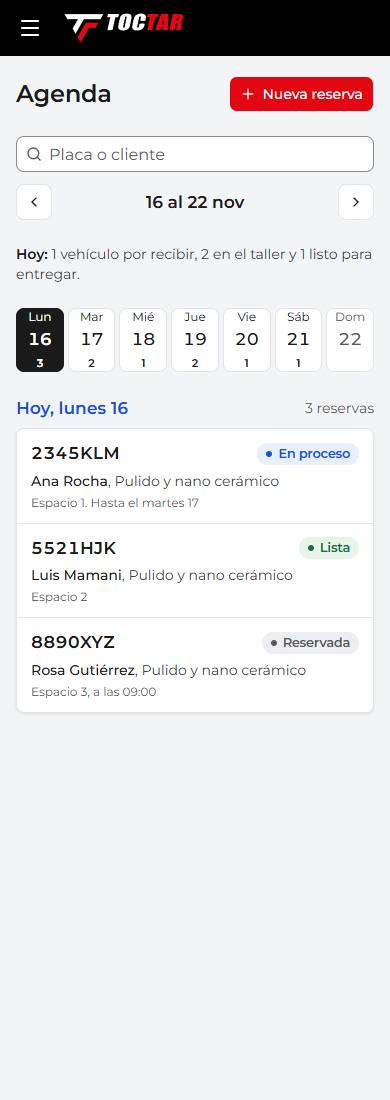
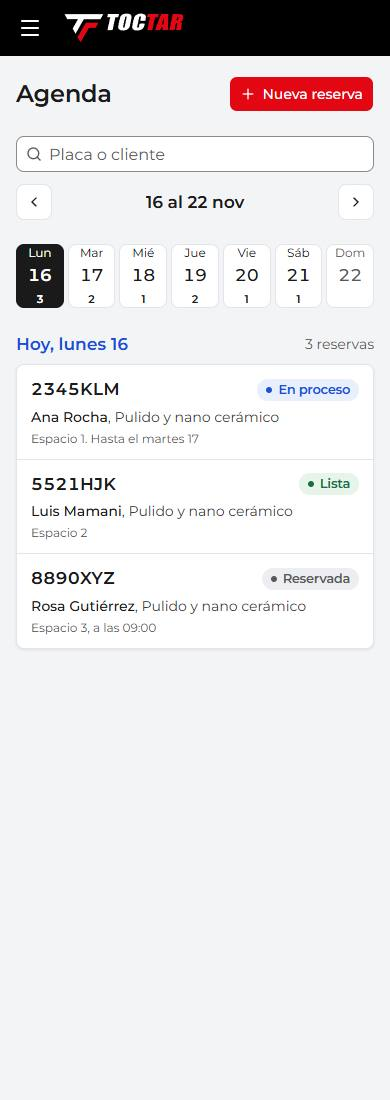
fix: la Agenda sin el resumen de hoy (por recibir, en el taller y para entregar)
Sobraba: la semana ya lo muestra. Se va también su consulta (resumenDeHoy). Las capturas, al día.

Changed region(s): [[0.0308, 0.2164, 0.9538, 0.6491]]

diff --git a/src/app/panel/agenda/page.tsx b/src/app/panel/agenda/page.tsx
@@ -12,14 +12,14 @@ import { ListaFilas } from "@/componentes/panel/fila-lista";
 import { Insignia } from "@/componentes/panel/insignia";
 import { PaginaPanel } from "@/componentes/panel/pagina-panel";
 import { CeldaDoble, TablaLista, type ColumnaTabla } from "@/componentes/panel/tabla-lista";
-import { cantidad, palabra } from "@/lib/cantidad";
+import { cantidad } from "@/lib/cantidad";
 import { buttonVariants } from "@/componentes/ui/button";
 import { fechaEnBolivia, fechaExiste, sumarDias } from "@/lib/fechas";
 import { puedeVerModulo } from "@/lib/permisos";
 import { exigirModulo } from "@/lib/sesion";
 import { AgendaDelDia, PestanasDias, SemanaEnLista, TableroSemana } from "@/modulos/agenda/componentes/tablero";
-import { buscarReservas, resumenDeHoy, semanaDeAgenda, type ResumenDeHoy } from "@/modulos/agenda/consultas";
-import { diasDeLaSemana, fechaCorta, lunesDeLaSemana, NOMBRE_ESTADO_TRABAJO, textoSemana, textoServicio, textoSemanaCorto, TONO_ESTADO_TRABAJO, unirConY } from "@/modulos/agenda/reglas";
+import { buscarReservas, semanaDeAgenda } from "@/modulos/agenda/consultas";
+import { diasDeLaSemana, fechaCorta, lunesDeLaSemana, NOMBRE_ESTADO_TRABAJO, textoSemana, textoServicio, textoSemanaCorto, TONO_ESTADO_TRABAJO } from "@/modulos/agenda/reglas";
 import { cotizacionesPorReservar, type FilaCotizacion } from "@/modulos/cotizaciones/consultas";
 import { bs, diasDesde, textoDias } from "@/modulos/cotizaciones/reglas";
 import { rutaTrabajo } from "@/modulos/ordenes/reglas";
@@ -30,7 +30,7 @@ export const metadata: Metadata = { title: "Agenda" };
 // HU-29: el tablero de la agenda (RF-38). `?semana=` (cualquier día de la semana; se toma su lunes) y, en el celular,
 // `?dia=` (el día que se ve). Dueño o encargado con "Agenda".
 // Pulido 10.1: el tablero de la semana solo con espacio (desde 1280 px desde el 16/11). Lavado de cara (16/11,
-// prototipo aprobado): un buscador de reservas de cualquier semana (?q=), lo de hoy en una línea, "Por reservar" plegado
+// prototipo aprobado): un buscador de reservas de cualquier semana (?q=), "Por reservar" plegado
 // y, en la tableta, la semana como lista por día; en el celular, un día a la vez.
 export default function PaginaAgenda({ searchParams }: PageProps<"/panel/agenda">) {
   return (
@@ -118,7 +118,7 @@ async function Tablero({ searchParams }: Pick<PageProps<"/panel/agenda">, "searc
 /** Lo de hoy, "Por reservar" y la semana en sus tres vistas (computadora, tableta y celular). */
 async function Semana(props: { lunes: string; dias: string[]; dia: string; hoy: string; conOrdenes: boolean; conMontos: boolean; desde: string }) {
   const { lunes, dias, dia, hoy, conOrdenes, conMontos, desde: desdeAqui } = props;
-  const [semana, porReservar, resumen] = await Promise.all([semanaDeAgenda(lunes, dias[6]), cotizacionesPorReservar(), resumenDeHoy(hoy)]);
+  const [semana, porReservar] = await Promise.all([semanaDeAgenda(lunes, dias[6]), cotizacionesPorReservar()]);
   const ahora = new Date();
   const fila = (c: FilaCotizacion) => ({
     href: conDesde(`/panel/agenda/nueva?cotizacion=${c.cotizacionId}`, desdeAqui),
@@ -129,23 +129,20 @@ async function Semana(props: { lunes: string; dias: string[]; dia: string; hoy: 
 
   return (
     <>
-      <div className="flex flex-col gap-3">
-        <ResumenHoy resumen={resumen} />
-        {/* Pedido 31: las cotizaciones aceptadas que esperan fecha. Lavado de cara (16/11): plegadas en una fila, así el
-            tablero, que es lo principal de la Agenda, no queda abajo de una lista larga; sin ninguna, no ocupa lugar */}
-        {porReservar.length > 0 && (
-          <details className="group">
-            <summary className="tt-tarjeta-panel flex min-h-12 cursor-pointer list-none items-center gap-3 px-4 py-3 hover:bg-superficie/50 [&::-webkit-details-marker]:hidden">
-              <span className="inline-flex h-6 min-w-6 items-center justify-center rounded-full bg-aviso-fondo px-1.5 text-sm font-bold text-aviso">{porReservar.length}</span>
-              <span className="flex-1 text-sm font-semibold">{porReservar.length === 1 ? "Cotización por reservar" : "Cotizaciones por reservar"}</span>
-              <ChevronDownIcon className="size-4 shrink-0 text-tinta-suave group-open:rotate-180" aria-hidden />
-            </summary>
-            <div className="mt-2">
-              <ListaFilas etiqueta="Por reservar" filas={porReservar.map(fila)} />
-            </div>
-          </details>
-        )}
-      </div>
+      {/* Pedido 31: las cotizaciones aceptadas que esperan fecha. Lavado de cara (16/11): plegadas en una fila, así el
+          tablero, que es lo principal de la Agenda, no queda abajo de una lista larga; sin ninguna, no ocupa lugar */}
+      {porReservar.length > 0 && (
+        <details className="group">
+          <summary className="tt-tarjeta-panel flex min-h-12 cursor-pointer list-none items-center gap-3 px-4 py-3 hover:bg-superficie/50 [&::-webkit-details-marker]:hidden">
+            <span className="inline-flex h-6 min-w-6 items-center justify-center rounded-full bg-aviso-fondo px-1.5 text-sm font-bold text-aviso">{porReservar.length}</span>
+            <span className="flex-1 text-sm font-semibold">{porReservar.length === 1 ? "Cotización por reservar" : "Cotizaciones por reservar"}</span>
+            <ChevronDownIcon className="size-4 shrink-0 text-tinta-suave group-open:rotate-180" aria-hidden />
+          </summary>
+          <div className="mt-2">
+            <ListaFilas etiqueta="Por reservar" filas={porReservar.map(fila)} />
+          </div>
+        </details>
+      )}
 
       {semana.espacios.length === 0 ? (
         <p className="text-tinta-suave">No hay espacios activos. Agrégalos en Configuración, «Taller».</p>
@@ -158,24 +155,6 @@ async function Semana(props: { lunes: string; dias: string[]; dia: string; hoy: 
         </>
       )}
     </>
-  );
-}
-
-/**
- * Lo de hoy en una línea de texto (revisión del desarrollador, 16/11): antes eran tres números en una tarjeta que
- * llevaban a otras pantallas; ahora solo se lee. "Hoy: 1 vehículo por recibir, 2 en el taller y 1 listo para
- * entregar." Lo que está en cero no se nombra.
- */
-function ResumenHoy({ resumen }: { resumen: ResumenDeHoy }) {
-  const partes = [
-    resumen.porRecibir > 0 && `${cantidad(resumen.porRecibir, "vehículo", "vehículos")} por recibir`,
-    resumen.enElTaller > 0 && `${resumen.enElTaller} en el taller`,
-    resumen.paraEntregar > 0 && `${resumen.paraEntregar} ${palabra(resumen.paraEntregar, "listo", "listos")} para entregar`,
-  ].filter((p): p is string => !!p);
-  return (
-    <p className="text-sm text-tinta-media">
-      <span className="font-semibold text-tinta">Hoy:</span> {partes.length > 0 ? unirConY(partes) : "nada por recibir ni en el taller"}.
-    </p>
   );
 }
 

diff --git a/src/modulos/agenda/consultas.ts b/src/modulos/agenda/consultas.ts
@@ -562,27 +562,6 @@ export async function semanaDeAgenda(lunes: string, domingo: string): Promise<Se
   };
 }
 
-/** Lo de hoy arriba de la Agenda (lavado de cara, 16/11): cuántas faltan recibir, cuántas están en el taller y cuántas listas. */
-export type ResumenDeHoy = { porRecibir: number; enElTaller: number; paraEntregar: number };
-
-/**
- * Por recibir: las agendadas de hoy y las de días pasados que todavía no se recibieron (como el Inicio, `ingresosDeHoy`).
- * En el taller: recibidas, en proceso o listas. Para entregar: las listas.
- */
-export async function resumenDeHoy(hoy: string): Promise<ResumenDeHoy> {
-  const s = await sucursalPrincipal();
-  const [fila] = await db
-    .select({
-      porRecibir: sql<number>`count(*) filter (where ${trabajo.estado} = 'agendado' and ${trabajo.fechaInicio} <= ${hoy})`.mapWith(Number),
-      enElTaller: sql<number>`count(*) filter (where ${trabajo.estado} in ('recibido', 'en_proceso', 'listo'))`.mapWith(Number),
-      paraEntregar: sql<number>`count(*) filter (where ${trabajo.estado} = 'listo')`.mapWith(Number),
-    })
-    .from(trabajo)
-    // Solo las abiertas: las entregadas y canceladas se juntan con los años y no cuentan aquí
-    .where(and(eq(trabajo.sucursalId, s.id), inArray(trabajo.estado, ["agendado", "recibido", "en_proceso", "listo"])));
-  return fila ?? { porRecibir: 0, enElTaller: 0, paraEntregar: 0 };
-}
-
 export type ReservaEncontrada = Omit<ReservaTablero, "espacioId"> & { espacio: string };
 
 /** Cuántas reservas muestra la búsqueda de la Agenda: si hay más, se pide escribir más. */

diff --git a/tests/e2e/hu-29-tablero.spec.ts b/tests/e2e/hu-29-tablero.spec.ts
@@ -113,10 +113,6 @@ test("el buscador encuentra una reserva de otra semana por su placa y la abre; v
   await reserva(placa, 0, lunes, 4, 4);
   await ingresarComoDueno(page);
   await page.goto("/panel/agenda");
-  // Lo de hoy, en una línea de texto arriba del tablero, sin enlaces
-  const hoy = page.getByText(/^Hoy: /);
-  await expect(hoy).toBeVisible();
-  await expect(hoy.getByRole("link")).toHaveCount(0);
 
   await page.getByRole("searchbox", { name: "Buscar reservas por placa, cliente o teléfono" }).fill(placa.toLowerCase());
   const fila = page.getByRole("link", { name: new RegExp(`^${placa}`) });

diff --git a/src/lib/cantidad.ts b/src/lib/cantidad.ts
@@ -2,7 +2,4 @@
 // así ninguna pantalla escribe su propio n === 1.
 
 /** "3 vencidos", "1 vencido". */
-export const cantidad = (n: number, singular: string, plural: string) => `${n} ${palabra(n, singular, plural)}`;
-
-/** Solo la palabra, para cuando el número va aparte (más grande, en Reportes): "vehículo entregado" o "vehículos entregados". */
-export const palabra = (n: number, singular: string, plural: string) => (n === 1 ? singular : plural);
+export const cantidad = (n: number, singular: string, plural: string) => `${n} ${n === 1 ? singular : plural}`;

diff --git a/docs/08-desarrollo/pulido-visual.md b/docs/08-desarrollo/pulido-visual.md
@@ -319,7 +319,7 @@ Las pantallas de C1 a C4, en el orden en que el taller las usa. Los mismos está
 | 13.60 | **La política de privacidad, sección por sección** (14/11, pedido del desarrollador): «Editar política de privacidad» abría un modal con los 9 textos, algunos de hasta 2.500 caracteres: para corregir una palabra había que bajar por todo. Ahora cada sección es una tarjeta con su «Editar» y su modal con ese texto solo, con su ayuda (`editaPorSeccion` en el registro de páginas: aplica a las páginas largas; las demás siguen con un modal). Se guarda solo esa sección y se junta con lo guardado en un solo paso (`guardarSeccionContenido`): dos personas que editan secciones distintas no se pisan, y la «Última actualización» se mueve solo si cambió el texto. Pruebas: p49. |
 | 13.61 | **Subir fotos a la galería, en un modal** (14/11, pedido del desarrollador): «Subir fotos» reemplazaba el botón por un formulario en medio de la página, que empujaba la portada elegida y la lista. Ahora abre el modal «Subir fotos» (en el celular, la hoja desde abajo), con el selector de dos botones del pulido 13.56 (Tomar foto y Elegir de la galería; en la computadora, también se suelta encima), el antes y el después lado a lado desde la tableta y uno debajo del otro en el celular, el avance en el pie (no se cierra mientras sube) y el aviso al cerrarlo con fotos elegidas. El selector compartido suma lo que tenía la zona de la galería: rechaza lo que no es una foto también al elegirla y avisa si se soltaron varias; y sus botones dicen de qué foto son para el lector de pantalla («Tomar foto del después»). Pruebas: hu-09, base, hu-10 y hu-12. |
 | 13.62 | **El lavado de cara de la Agenda** (16/11, prototipo aprobado ese día): en la computadora, cada día libre era un recuadro punteado con «+» (unos 15 por semana) y las reservas se perdían entre ellos; «Cerrado» iba en un bloque gris por espacio; hoy solo se marcaba en su encabezado; las reservas decían placa y servicio cortado, sin el cliente. La tableta usaba la vista del celular (un día, con media pantalla vacía) y en el celular el punto de «tiene reservas» salía en casi todos los días. No había buscador. Ahora: un **buscador** de reservas de cualquier semana por placa, cliente o teléfono (`buscarReservas`, las próximas primero y después las pasadas, hasta 30); **lo de hoy** en una línea (por recibir, en el taller y para entregar, `resumenDeHoy`); «**Por reservar**» plegado en una fila con su cuenta. **Computadora** (desde 1280 px; en una laptop de 1024, con el menú, cada día medía 80 px): los días libres sin recuadro (el «Reservar» aparece al pasar el mouse o con el foco), hoy enmarcado en toda su columna, el día cerrado una sola vez con rayas a 60° y cada reserva con placa, cliente, servicio, estado escrito y hora si se acordó. **Tableta y laptop chica:** la semana como lista por día («Hoy, lunes 16», «Mañana, martes 17»), con los espacios libres juntos en una fila con «Reservar». **Celular:** las pestañas dicen cuántas reservas tiene cada día (o «libre») y el día va en una sola tarjeta, con los libres en una fila baja. Pruebas: hu-29 (con el buscador), hu-34-historial, p31 y reserva-empieza-de-cero. |
-| 13.63 | **La Agenda más limpia** (16/11, revisión del desarrollador sobre 13.62): el marco azul de hoy en toda la columna quedaba debajo de las reservas y se cortaba donde una cruzaba al día siguiente; hoy se marca solo en su encabezado («Lun 16 Hoy», en azul). Lo de hoy dejó de ser una tarjeta con tres números que llevaban a otras pantallas (al Inicio y a Órdenes): ahora es una línea de texto que solo se lee, «Hoy: 1 vehículo por recibir, 2 en el taller y 1 listo para entregar.», sin nombrar lo que está en cero, y «Por reservar» va debajo, a lo ancho. Prueba: hu-29. |
+| 13.63 | **La Agenda más limpia** (16/11, revisión del desarrollador sobre 13.62): el marco azul de hoy en toda la columna quedaba debajo de las reservas y se cortaba donde una cruzaba al día siguiente; hoy se marca solo en su encabezado («Lun 16 Hoy», en azul). Se quitó lo de hoy (por recibir, en el taller y para entregar): llevaba a otras pantallas y, ya en una línea de texto, sobraba; la semana ya lo muestra. «Por reservar» queda arriba del tablero, a lo ancho. Prueba: hu-29. |
 
 **Cobertura** (revisada el 24/10 contra todas las rutas de `src/app` y `public/`): cada pantalla del sitio, el ingreso y el panel está en un grupo. Lo que no tiene ruta propia se revisa dentro de su pantalla:
 - **Los diálogos:** el historial de precios va en 7.3, el visor de fotos en 11.2 y 11.3, y el comprobante en 10.3 y 11.4.
